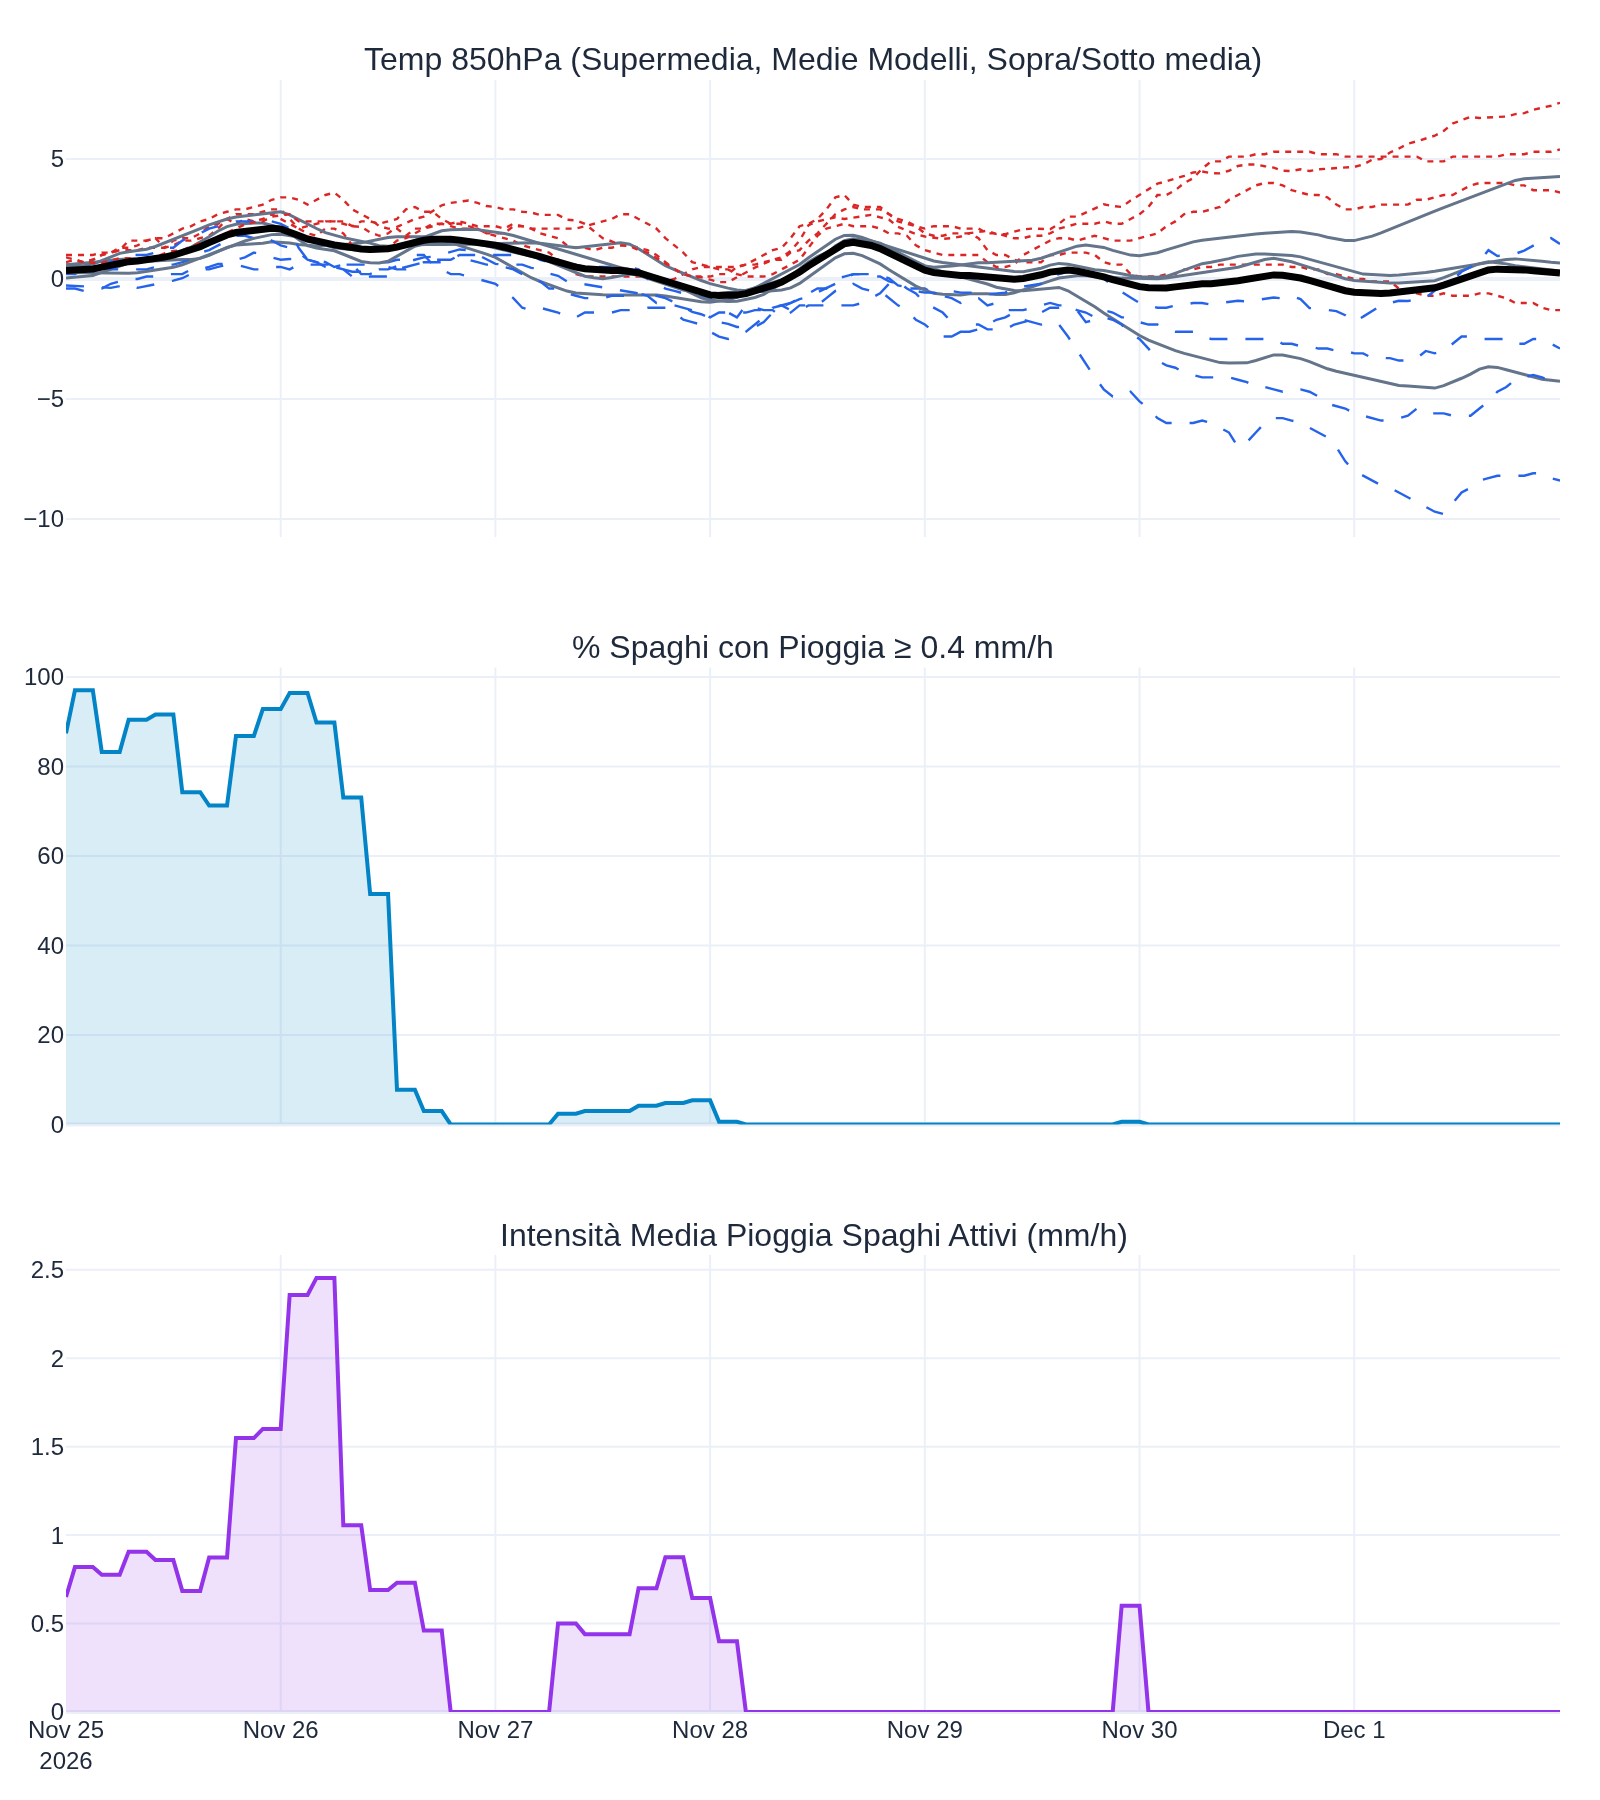
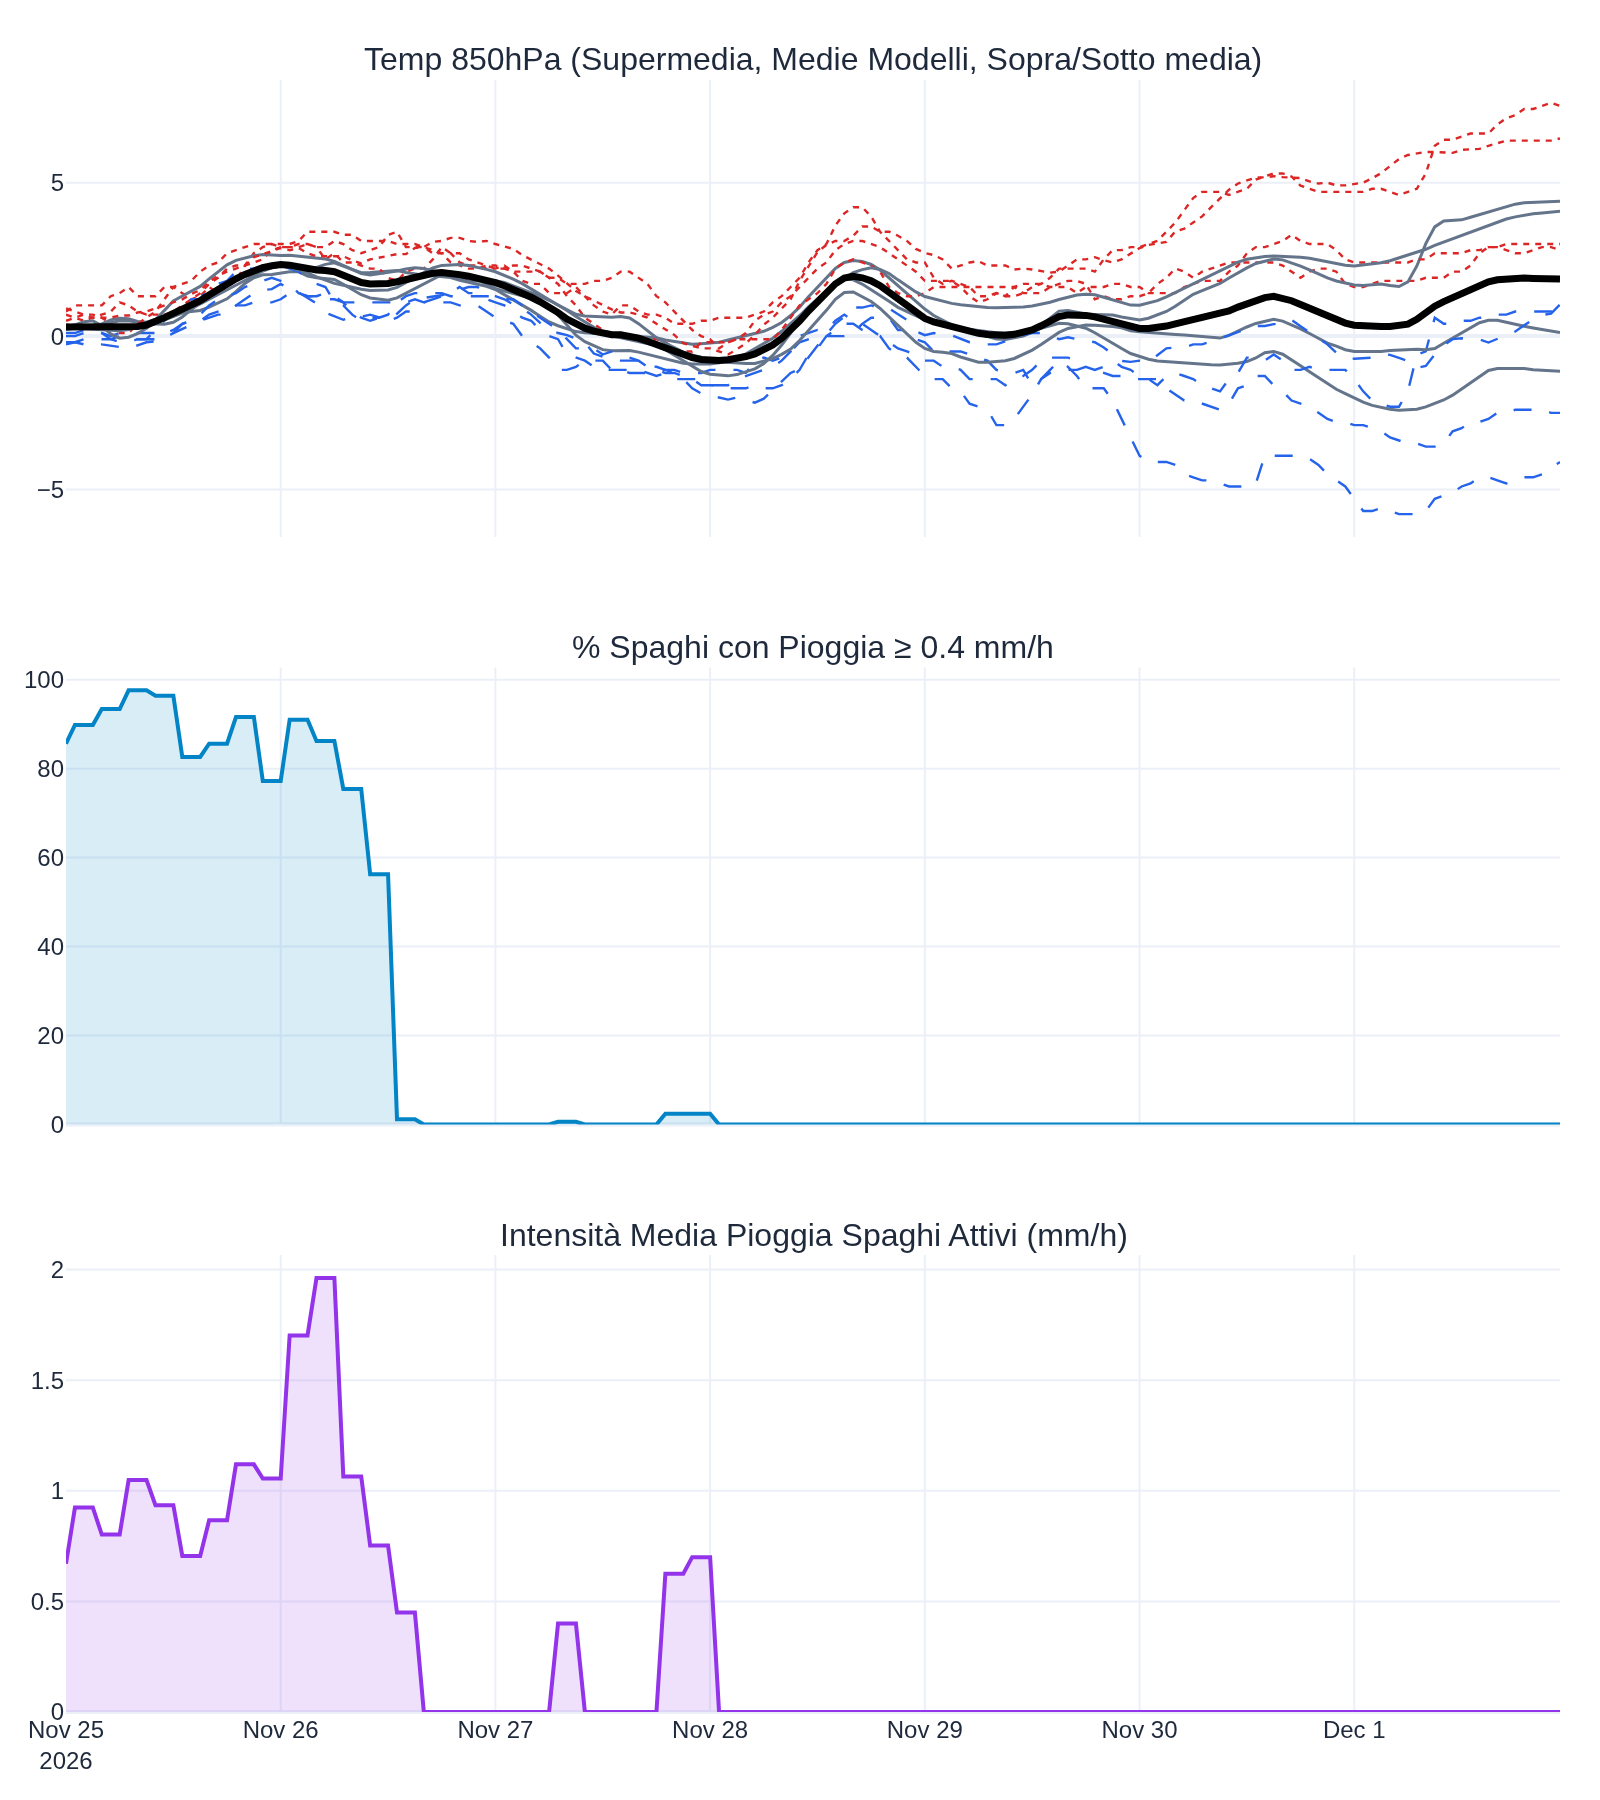
deploy: 1dc0a12943804f5ece3b06480eea32b7b3374c03

diff --git a/index.html b/index.html
@@ -73,8 +73,8 @@
             <div class="card-title">Temperatura 24h</div>
             <div class="card-main-val">7.9°C</div>
             <div class="temp-sub">
-                <span class="temp-max">Max: 8.8°C</span>
-                <span class="temp-min">Min: 7.0°C</span>
+                <span class="temp-max">Max: 8.5°C</span>
+                <span class="temp-min">Min: 7.1°C</span>
             </div>
         </div>
         <div class="card">
@@ -84,16 +84,24 @@
         </div>
         <div class="card">
             <div class="card-title">Accumulo Totale 24h</div>
-            <div class="card-main-val" style="color: #9333ea;">28.8 <span style="font-size: 0.9rem;">mm</span></div>
+            <div class="card-main-val" style="color: #9333ea;">23.5 <span style="font-size: 0.9rem;">mm</span></div>
             <div class="card-subtext">Finestra: <b>00:00 - 23:00</b></div>
         </div>
         <div class="card">
             <div class="card-title">Indice Turboloso</div>
-            <div class="card-main-val" style="color: #16a34a;">3.4</div>
-            <div class="card-subtext">Stato: <b style="color: #16a34a;">Livello 0 (Verde)</b></div>
+            <div class="card-main-val" style="color: #d97706;">5.5</div>
+            <div class="card-subtext">Stato: <b style="color: #d97706;">Livello 1 (Giallo)</b></div>
         </div>
     </div>
 
+    
+    <div class="alert-banner alert-lvl-1">
+        <div class="alert-title">Possibili temporali!</div>
+        <div class="alert-details">
+            <span><b>Pioggia max:</b> 3.3 mm/h (ore 18:00)</span>
+            <span><b>Raffica max:</b> 21.2 km/h (ore 00:00)</span>
+        </div>
+    </div>
     
 
     <div class="plots-container">
